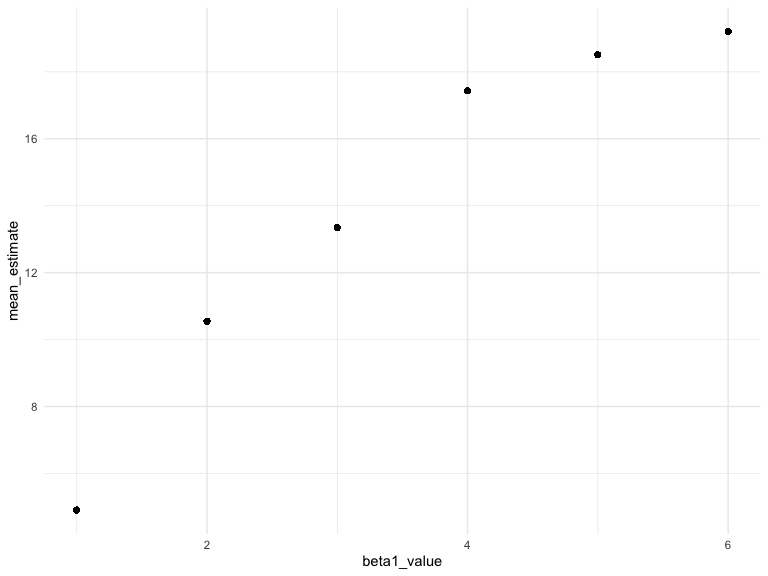
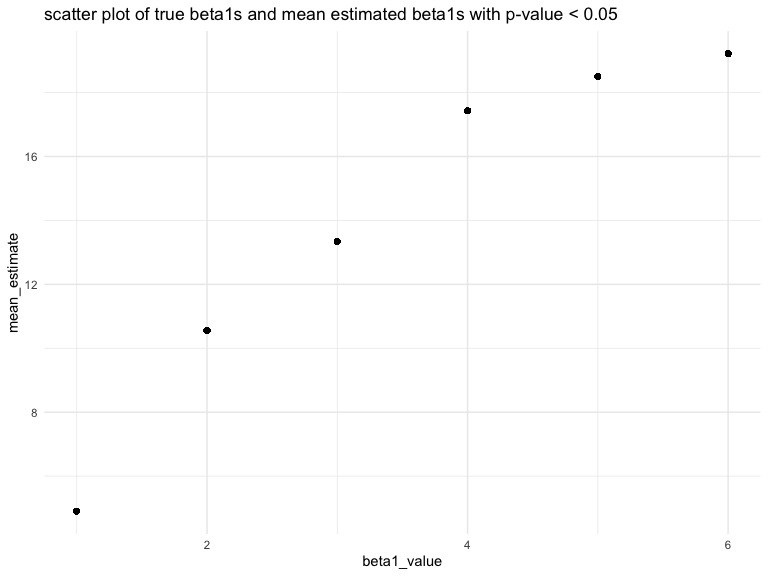
final version

diff --git a/p8105_hw5_xc2472.md b/p8105_hw5_xc2472.md
@@ -141,7 +141,10 @@ sim_results %>%
   filter(decision == "reject") %>% 
   ggplot(aes(x = beta1_value, y = proportion)) +
   geom_point() + 
-  geom_smooth(method = "lm", se = FALSE)
+  geom_smooth(method = "lm", se = FALSE) +
+  labs(
+    title = "scatter plot of true beta1 value and proportions of rejecting H0"
+  )
 ```
 
 ![](p8105_hw5_xc2472_files/figure-gfm/unnamed-chunk-10-1.png)<!-- -->
@@ -159,7 +162,10 @@ sim_results %>%
   mutate(mean_estimate = mean(estimate)) %>% 
   ggplot(aes(x = beta1_value, y = mean_estimate)) +
   geom_point() + 
-  geom_smooth(method = "lm", se = FALSE)
+  geom_smooth(method = "lm", se = FALSE) +
+  labs(
+    title = "scatter plot of true beta1s and mean estimated beta1s"
+  )
 ```
 
 ![](p8105_hw5_xc2472_files/figure-gfm/unnamed-chunk-11-1.png)<!-- -->
@@ -172,7 +178,10 @@ sim_results %>%
   group_by(beta1_value) %>% 
   mutate(mean_estimate = mean(estimate)) %>% 
   ggplot(aes(x = beta1_value, y = mean_estimate)) +
-  geom_point() 
+  geom_point() +
+  labs(
+    title = "scatter plot of true beta1s and mean estimated beta1s with p-value < 0.05"
+  )
 ```
 
 ![](p8105_hw5_xc2472_files/figure-gfm/unnamed-chunk-12-1.png)<!-- -->
